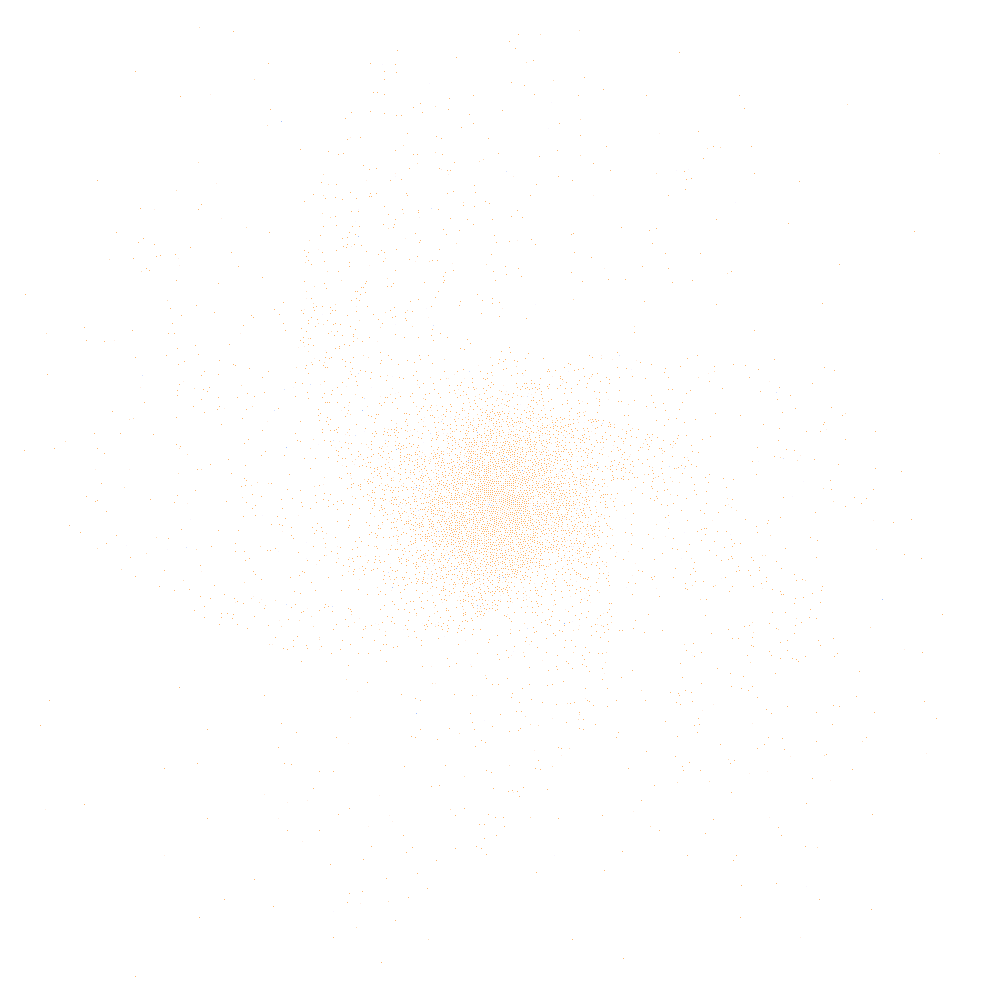
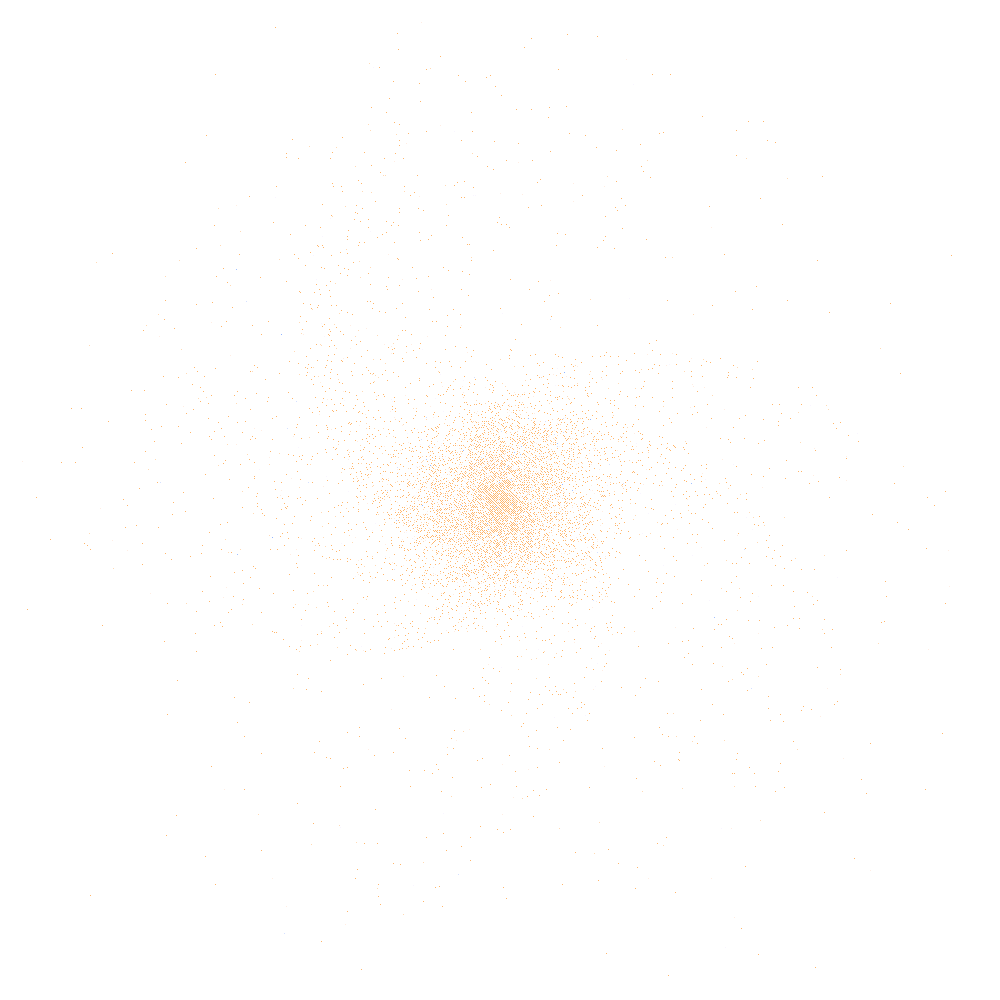
added Ringermacher-Mead approach

Changed region(s): [[0.372, 0.403, 0.589, 0.62]]

diff --git a/ringermacherMead.py b/ringermacherMead.py
@@ -1,0 +1,169 @@
+# Inspired by https://arxiv.org/ftp/arxiv/papers/0908/0908.0892.pdf
+
+import numpy as np
+from PIL import Image, ImageDraw
+
+def addSpiral(map, tMax, A, B, N, angO, decay):
+    centerX = map.size[0] / 2
+    centerY = map.size[1] / 2
+    t = 1
+    while t <= tMax:
+        theta = t/100
+        theta = np.tan(theta/(2*N))
+        r = A / (np.log(B * theta))
+        dX = r * np.cos(angO+t/100)
+        dY = r * np.sin(angO+t/100)
+        x = round(centerX + dX)
+        y = round(centerY - dY)
+        if t == 2 and decay <= 2:
+            ImageDraw.Draw(map).line((x,y,centerX,centerY), cK_color)
+        if 1 <= x <= width-1 and 1 <= y <= height-1:
+            starClass = np.random.rand() * 100
+            if starClass < 0.1/decay:
+                map.putpixel((x,y), cO_color)
+            elif starClass < 0.4/decay:
+                map.putpixel((x,y), cB_color)
+            elif starClass < 1.0/decay:
+                map.putpixel((x,y), cA_color)
+            elif starClass < 4.0/decay:
+                map.putpixel((x,y), cF_color)
+            elif starClass < 12.0/decay:
+                map.putpixel((x,y), cG_color)
+            elif starClass < 24.0/decay:
+                map.putpixel((x,y), cK_color)
+            elif starClass < 70.0/decay:
+                map.putpixel((x,y), cM_color)
+        else:
+            break
+        t += 1
+    return map
+
+def addGauss(map, sigma, nStars):
+    nStars = round(nStars)
+    centerX = map.size[0] / 2
+    centerY = map.size[1] / 2
+    x_dist = np.random.normal(centerX, sigma, nStars)
+    y_dist = np.random.normal(centerY, sigma, nStars)
+
+    # Clip coordinates to image bounds
+    x_dist = np.clip(x_dist, 0, width - 1)
+    y_dist = np.clip(y_dist, 0, height - 1)
+
+    for i in range(nStars):
+        x = int(round(x_dist[i]))
+        y = int(round(y_dist[i]))
+        if 1 <= x < width-1 and 1 <= y < height-1:
+            starClass = np.random.rand() * 100
+            if starClass < 0.1:
+                map.putpixel((x, y), cO_color)
+            elif starClass < 0.4:
+                map.putpixel((x, y), cB_color)
+            elif starClass < 1.0:
+                map.putpixel((x, y), cA_color)
+            elif starClass < 4.0:
+                map.putpixel((x, y), cF_color)
+            elif starClass < 12.0:
+                map.putpixel((x, y), cG_color)
+            elif starClass < 24.0:
+                map.putpixel((x, y), cK_color)
+            else:
+                map.putpixel((x, y), cM_color)
+    return map
+
+def addFrame(map, sigma, nStars):
+    blank = Image.new('RGBA', map.size, (0,0,0,255))
+    mask = Image.new('L', map.size, 0)
+
+    centerX = round(map.size[0] / 2)
+    centerY = round(map.size[1] / 2)
+    nStars = round(nStars)
+    x_dist = np.random.normal(centerX, sigma, nStars*30)
+    y_dist = np.random.normal(centerY, sigma, nStars*30)
+
+    for i in range(nStars*30):
+
+        x = round(x_dist[i])
+        y = round(y_dist[i])
+        if 20 <= x < width-20 and 20 <= y < height-20:
+            mask.putpixel((x,y), 255)
+
+    map = Image.composite(map, blank, mask)
+    return map
+
+def removeClusters(map):
+    px = map.load()
+    for y in range(map.size[1]-1):
+        for x in range(map.size[0]-1):
+            if px[x,y] != (0,0,0,255):
+                px[x-1,y-1] = (0,0,0,255)
+                px[x  ,y-1] = (0,0,0,255)
+                px[x+1,y-1] = (0,0,0,255)
+                px[x-1,y  ] = (0,0,0,255)
+                px[x+1,y  ] = (0,0,0,255)
+                px[x-1,y+1] = (0,0,0,255)
+                px[x  ,y+1] = (0,0,0,255)
+                px[x+1,y+1] = (0,0,0,255)
+    return map
+
+# define colours
+cO_color = (146, 181, 255, 255)
+cB_color = (162, 192, 255, 255)
+cA_color = (213, 224, 255, 255)
+cF_color = (249, 245, 255, 255)
+cG_color = (255, 237, 227, 255)
+cK_color = (255, 218, 181, 255)
+cM_color = (255, 182, 108, 255)
+
+# create empty map
+width  = 1000
+height = 1000
+map = Image.new('RGBA', (width, height), (0,0,0,255))
+
+# Formula:   r(phi) = A / log(B * tan(phi / 2*N))
+# using paramaters
+A = width/10            # scale
+B = 2                   # arm sweep
+N = 11                   # tightness
+
+# additional parameters
+nArms = 3               # number of arms
+decay = 3              # how slowly an arm will vanish               
+chaos = 2               # how chaotic the galaxy looks (set 0 if undesired)
+
+# derived parameters
+tMax   = width*2          # steps per arm
+angO   = (2*3.14)/nArms   # angular offset between arms
+sigma  = 100                # Gaussian distribution modifier
+sigma2 = 100                # Frame modifier
+nStars = (width*width)/64 # Number of rogue stars
+
+# create galaxy
+if chaos == 0:
+    for i in range(round(decay)):
+        for j in range(nArms):
+                map = addSpiral(map, tMax, A, B, N, angO*j+(i*0.01), (i+1)*0.1)
+else:
+    nArms = nArms+chaos
+    for k in range(nArms):
+        for i in range(round(decay*(k+1))):
+            for j in range(nArms):
+                    angO  = ((2*3.14)/nArms)+(k*j)
+                    map = addSpiral(map, tMax, A, B+(chaos*0.01), N+(chaos*0.01), angO*j+(i*0.01), (i+1)*0.1)
+    print("Adding spirals ", k, "of", nArms)
+    nArms -= 1
+print("Spirals complete")
+
+# add rogue stars
+map = addGauss(map, sigma, nStars)
+map = addGauss(map, sigma/3, nStars/2)
+map = addGauss(map, sigma/6, nStars/4)
+print("Gauss complete")
+
+# add frame
+map = addFrame(map, sigma2, nStars)
+print("Frame complete")
+map.save('ringermacher.png')
+
+# decluster
+map = removeClusters(map)
+map.save('loose_ringermacher.png')

diff --git a/mapgenSandbox.py b/mapgenSandbox.py
@@ -139,14 +139,14 @@ def removeClusters(width, height, img):
     for y in range(height-1):
         for x in range(width-1):
             if px[x,y] != (0,0,0,0):
-                px[x-1,y-1] = (0,0,0,0)
+                #px[x-1,y-1] = (0,0,0,0)
                 px[x  ,y-1] = (0,0,0,0)
-                px[x+1,y-1] = (0,0,0,0)
+                #px[x+1,y-1] = (0,0,0,0)
                 px[x-1,y  ] = (0,0,0,0)
                 px[x+1,y  ] = (0,0,0,0)
-                px[x-1,y+1] = (0,0,0,0)
+                #px[x-1,y+1] = (0,0,0,0)
                 px[x  ,y+1] = (0,0,0,0)
-                px[x+1,y+1] = (0,0,0,0)
+                #px[x+1,y+1] = (0,0,0,0)
     return img
 
 
